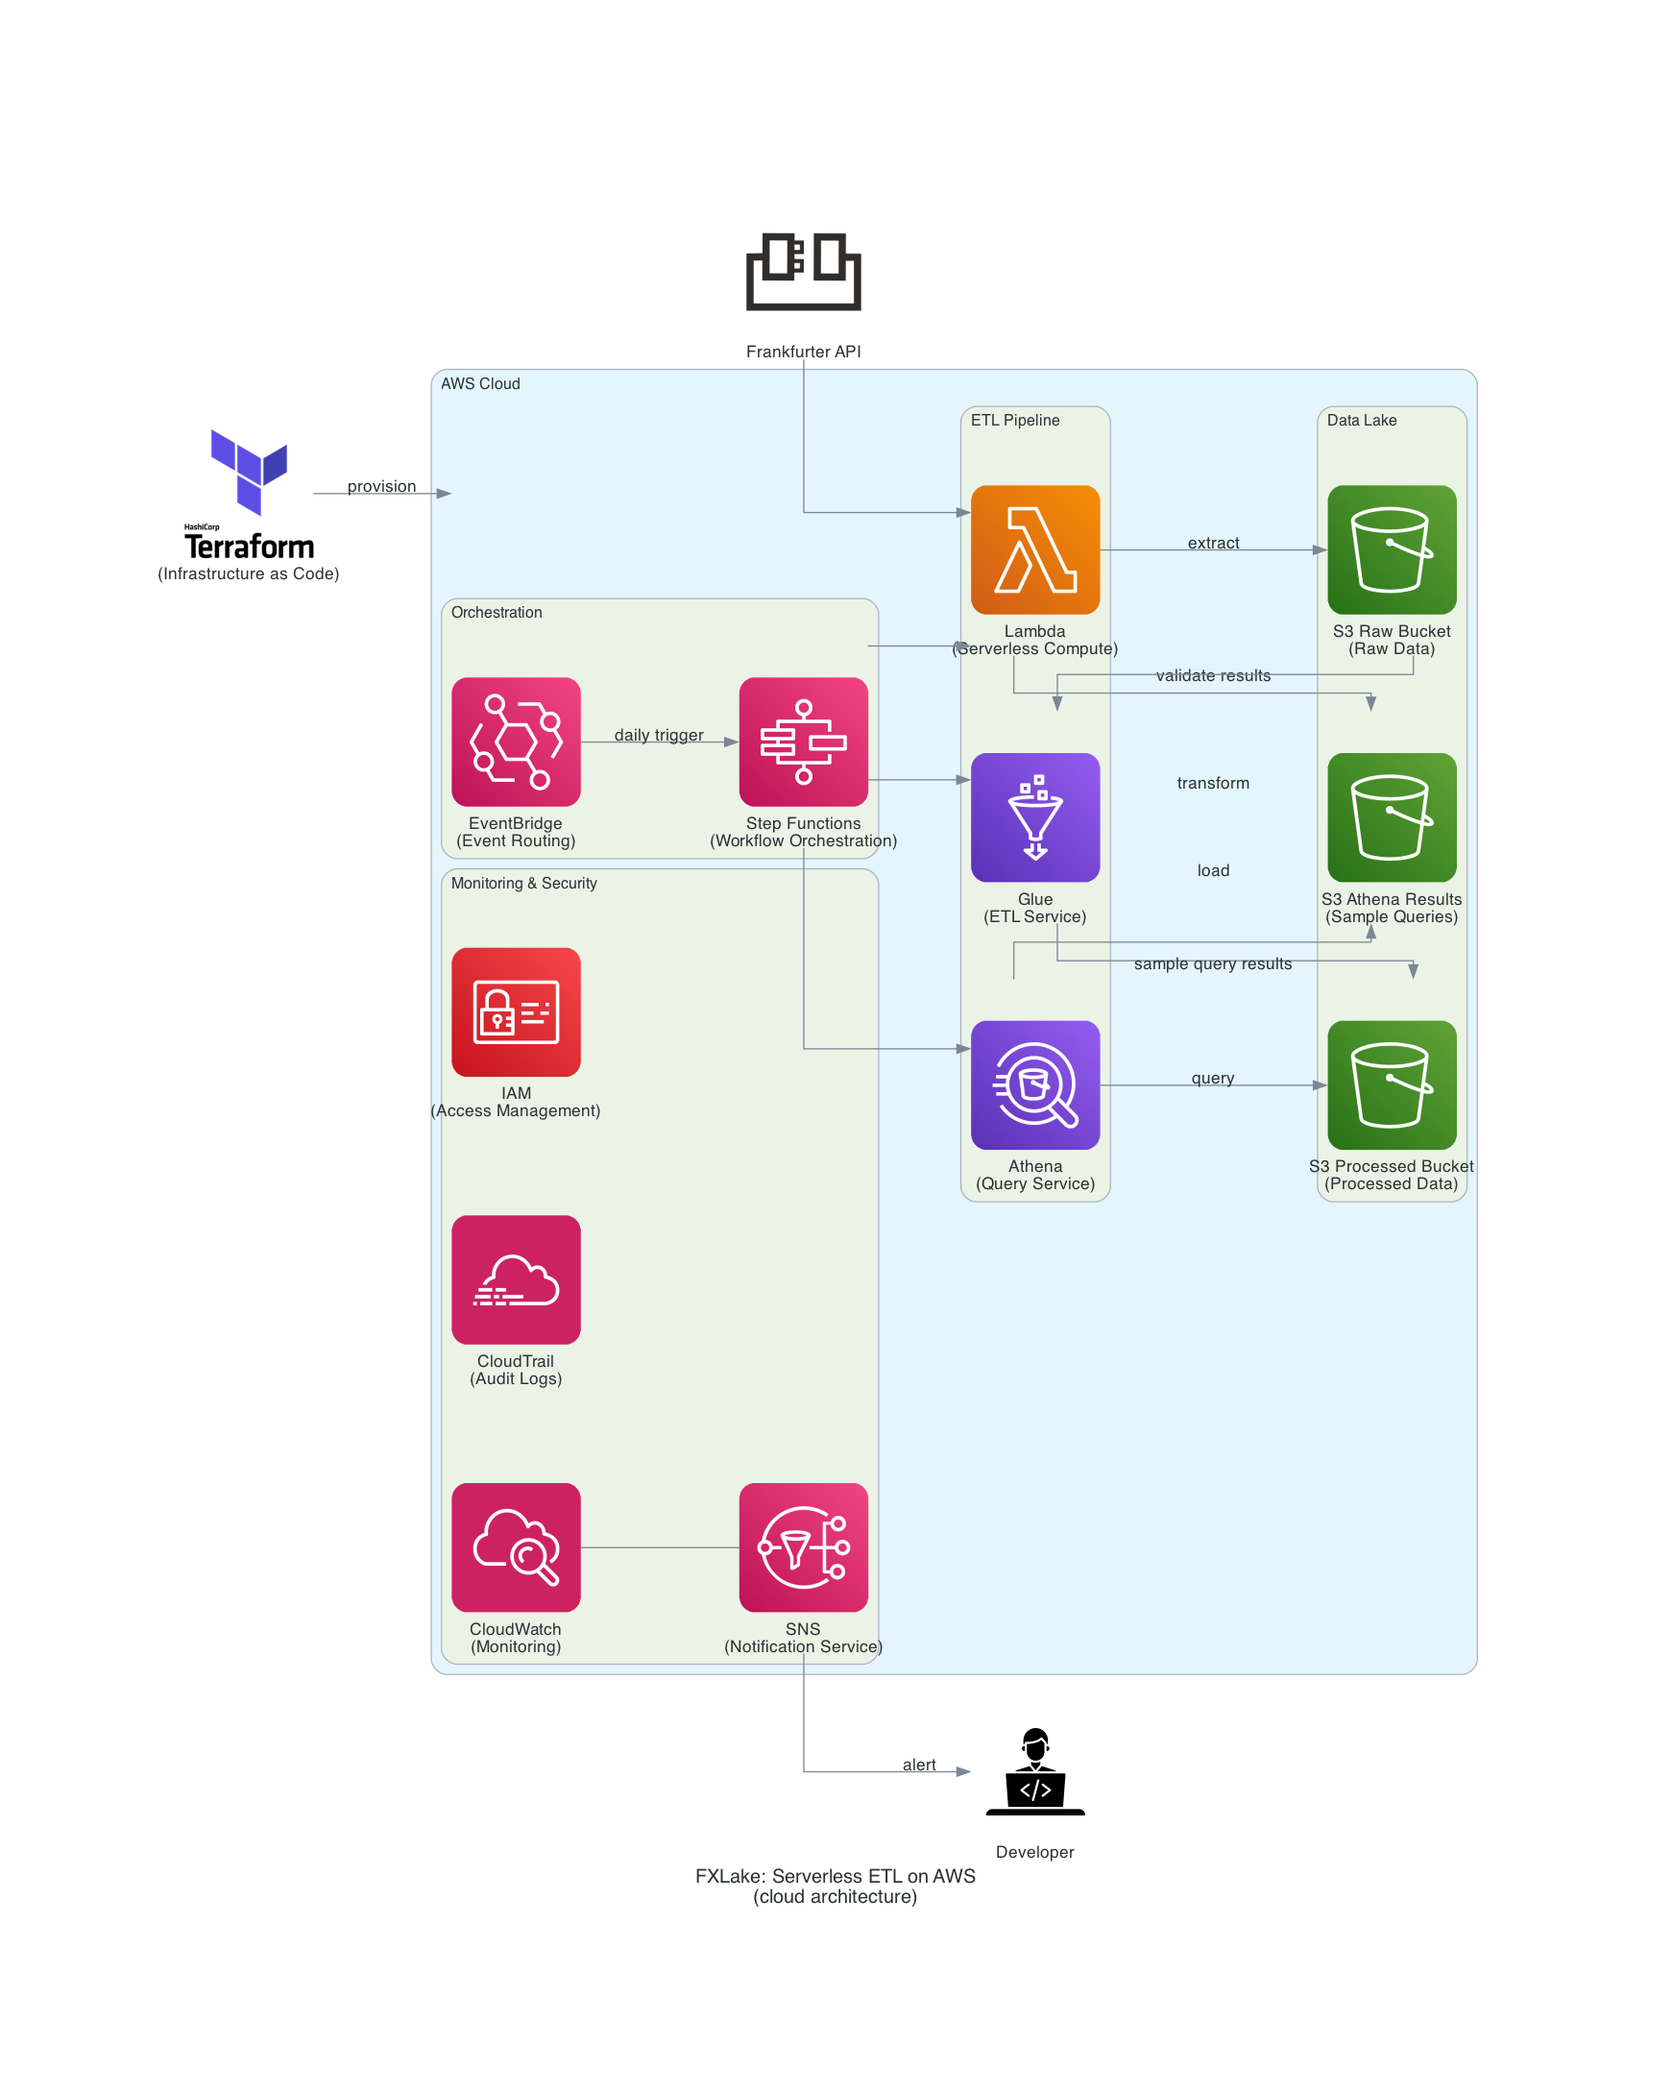
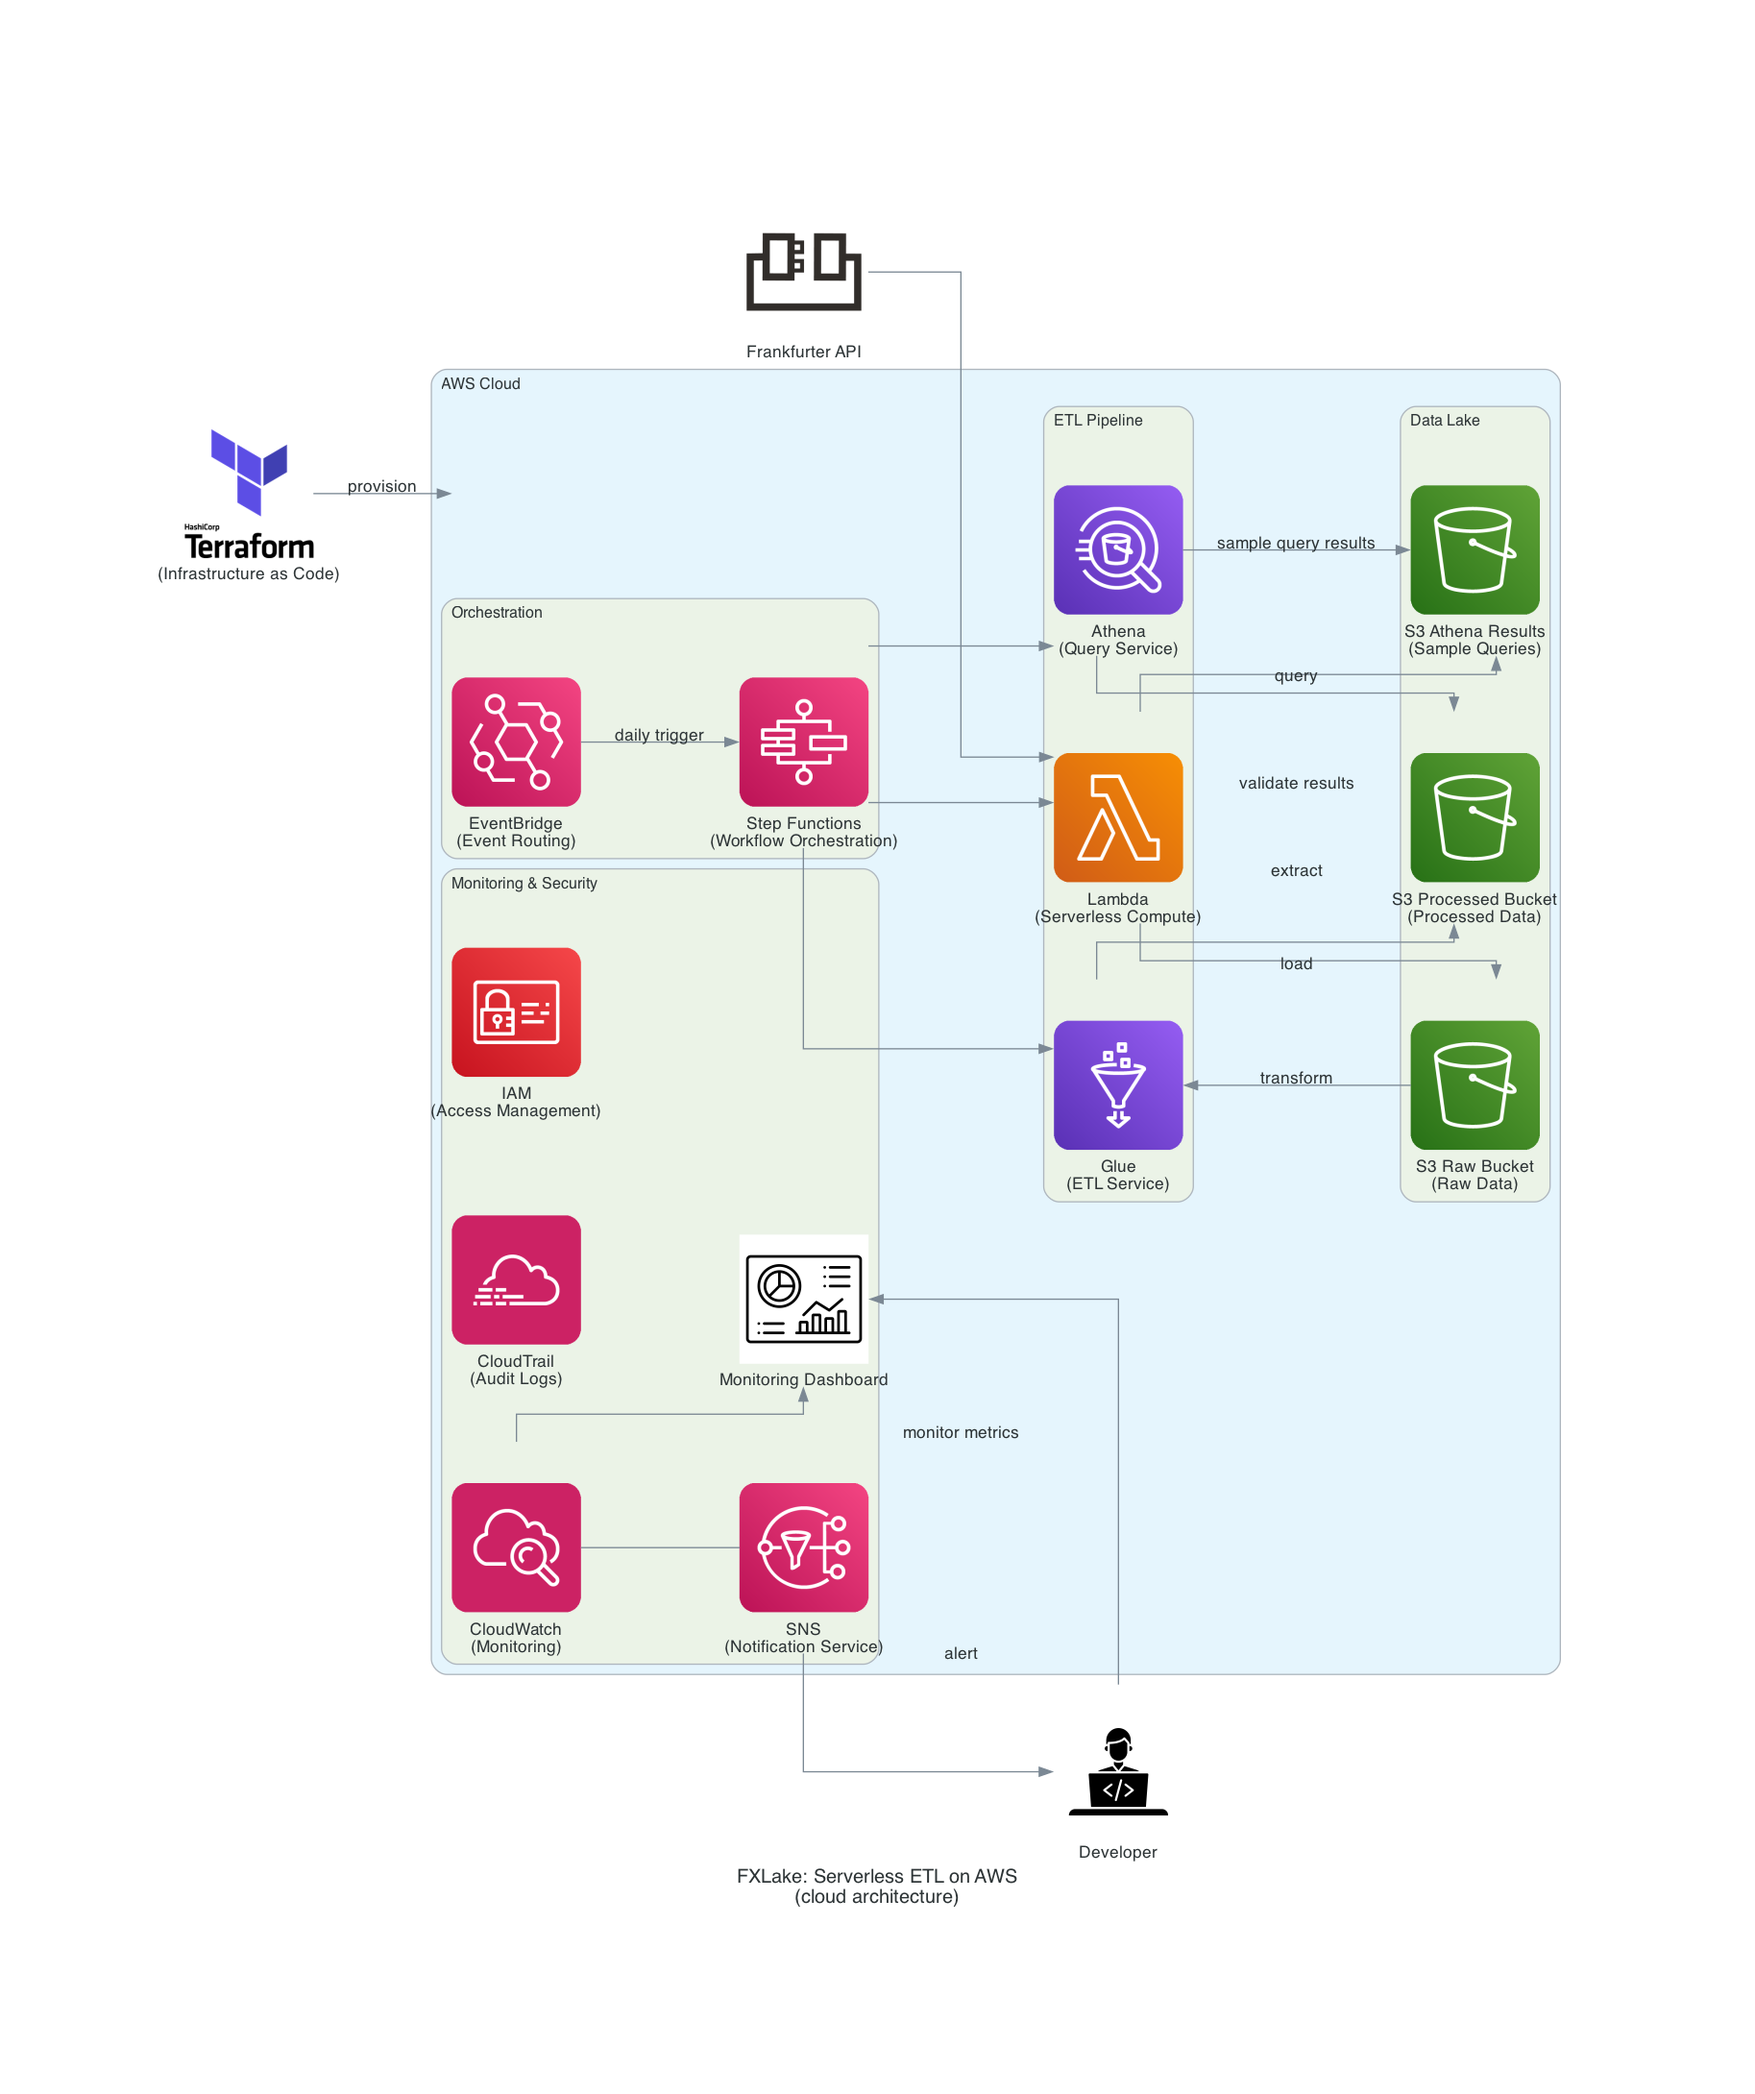
added cloudwatch dashboard in cloud architecture diagram

diff --git a/assets/cloud-architecture.py b/assets/cloud-architecture.py
@@ -52,6 +52,9 @@ with Diagram(
             cloudtrail = Cloudtrail("CloudTrail\n(Audit Logs)")
             iam = IAM("IAM\n(Access Management)")
             sns = SNS("SNS\n(Notification Service)")
+            cloudwatch_dashboard = Custom(
+                "Monitoring Dashboard", str(ICONS_DIR / "dashboard.png")
+            )
 
         # Orchestration
         (
@@ -89,3 +92,7 @@ with Diagram(
         (
             cloudwatch - sns >> Edge(label="alert") >> dev
         )  # Email notifications for pipeline failures
+
+        (
+            cloudwatch >> cloudwatch_dashboard << Edge(label="monitor metrics") << dev
+        )  # Monitoring
